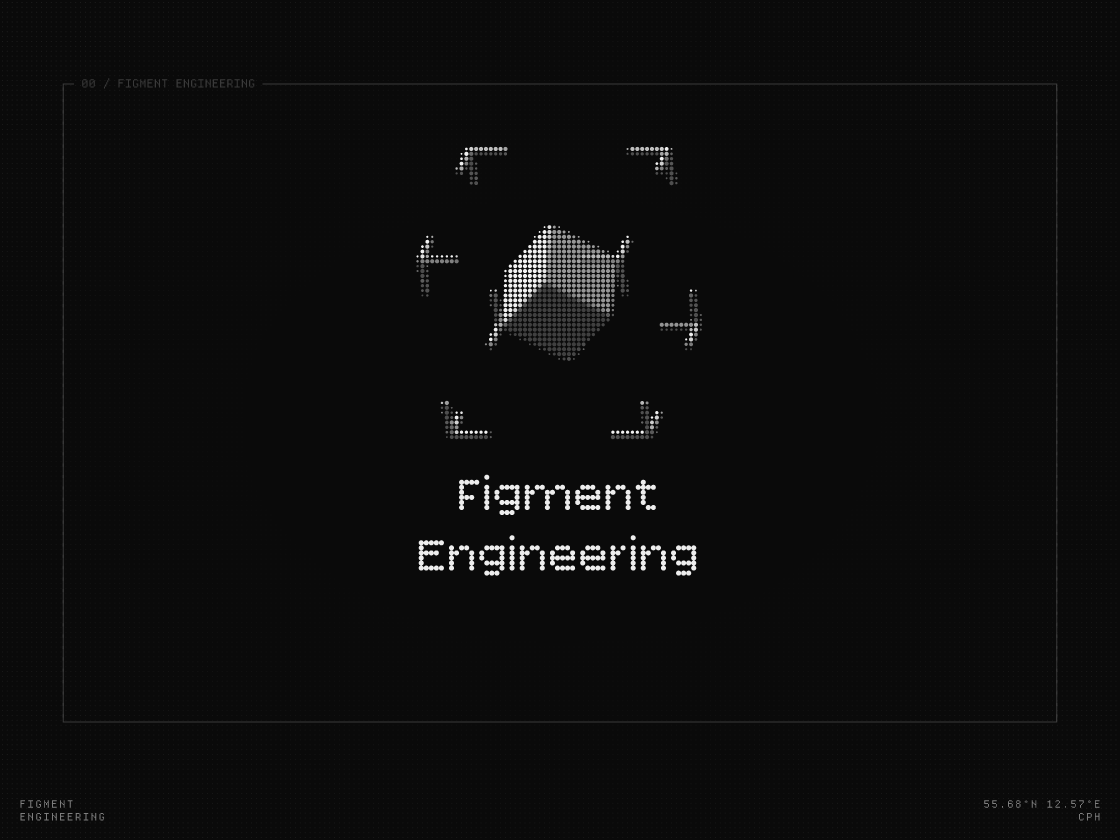
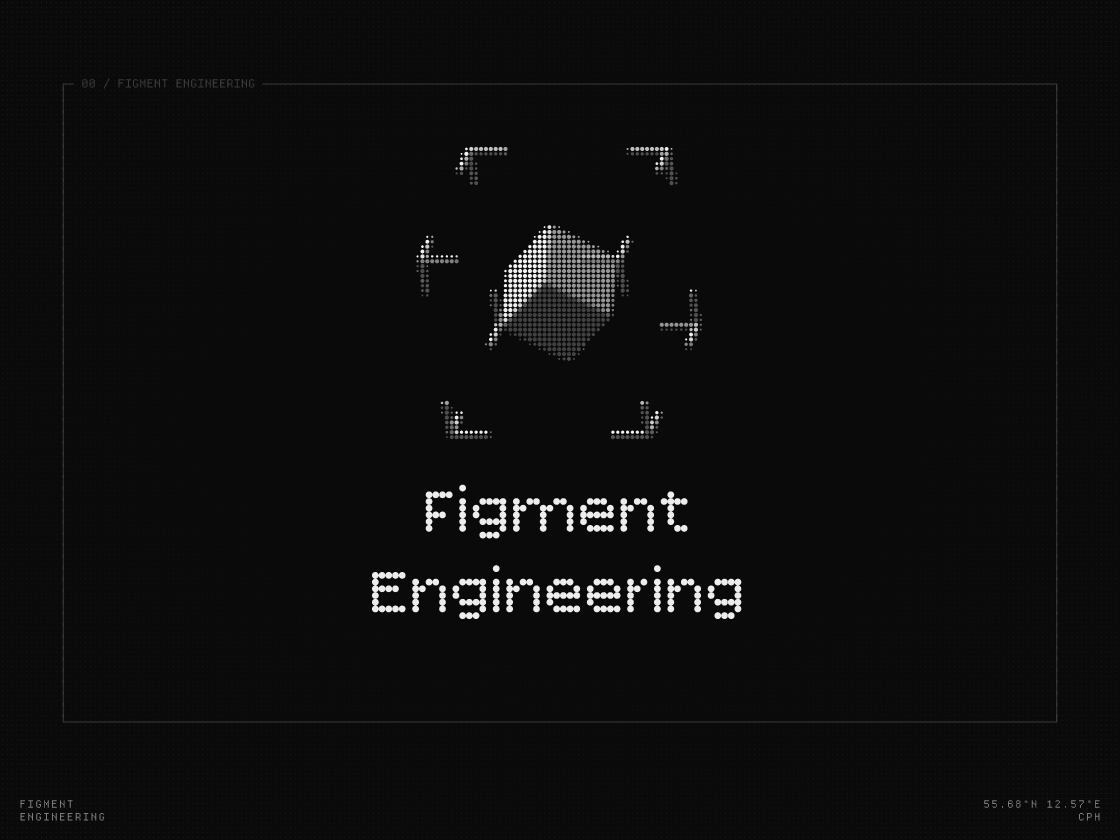
feat: wallpapers for the 16-inch MacBook Pro (3456×2234), with a laptop outline in the section; re-render Homepage with the larger title

Changed region(s): [[0.3125, 0.5571, 0.6875, 0.7429]]

diff --git a/src/lib/wallpapers/mount.test.ts b/src/lib/wallpapers/mount.test.ts
@@ -4,7 +4,7 @@ const m = vi.hoisted(() => ({ register: vi.fn(), prefersReducedMotion: vi.fn(), 
 vi.mock('../motion/scheduler', () => ({ register: m.register, prefersReducedMotion: m.prefersReducedMotion }));
 vi.mock('../report', () => ({ reportError: m.reportError }));
 
-import { WALLPAPERS } from '../../data/wallpapers';
+import { DEVICES, WALLPAPERS } from '../../data/wallpapers';
 import { TYPE_S } from '../type/typed';
 import { mountWallpapers } from './mount';
 
@@ -25,9 +25,9 @@ const el = (extra: Record<string, unknown> = {}) => {
 
 /** the section's markup as plain objects, server-rendered on Monolith for Mac */
 function fakeSection() {
-  const previews = (['mac', 'ipad', 'iphone'] as const).map((d) => el({ dataset: { for: d } }));
+  const previews = DEVICES.map((d) => el({ dataset: { for: d.id } }));
   const designs = WALLPAPERS.map((w) => el({ dataset: { wpDesign: w.id } }));
-  const devices = (['mac', 'ipad', 'iphone'] as const).map((d) => el({ dataset: { wpDevice: d } }));
+  const devices = DEVICES.map((d) => el({ dataset: { wpDevice: d.id } }));
   const parts = { path: el(), file: el({ textContent: 'fe-monolith.png' }), cursor: el(), name: el(), meta: el(), download: el() };
   const root = {
     dataset: {} as Record<string, string>,
@@ -66,7 +66,7 @@ describe('mountWallpapers', () => {
     const s = fakeSection();
     mountWallpapers(s.root);
     expect(s.root.dataset.device).toBe('iphone');
-    expect(s.previews[2].src).toBe('/wallpapers/preview/iphone/fe-monolith.png');
+    expect(s.previews[3].src).toBe('/wallpapers/preview/iphone/fe-monolith.png');
   });
 
   it('switches design and device, and retypes the filename from the start', () => {
@@ -78,9 +78,9 @@ describe('mountWallpapers', () => {
     expect(s.file.textContent).toBe('fe-monolith.png');
 
     s.designs[4].click(); // Claudewitz
-    s.devices[1].click(); // iPad
+    s.devices[2].click(); // iPad
     expect(s.root.dataset.device).toBe('ipad');
-    expect(s.previews[1].src).toBe('/wallpapers/preview/ipad/cw-bean.png');
+    expect(s.previews[2].src).toBe('/wallpapers/preview/ipad/cw-bean.png');
     expect(s.download.href).toBe('/wallpapers/ipad/cw-bean.png');
     expect(s.name.textContent).toBe('Claudewitz');
     expect(s.path.textContent).toBe('~/wallpapers/ipad/');
@@ -118,5 +118,15 @@ describe('mountWallpapers', () => {
     s.designs[2].click();
     expect(s.download.href).toBe('/wallpapers/mac/fe-homepage.png');
     expect(s.file.textContent).toBe('fe-homepage.png');
+  });
+
+  it('offers the MacBook Pro 16″ at its native size, named in full for screen readers', () => {
+    const s = fakeSection();
+    mountWallpapers(s.root);
+    s.devices[1].click();
+    expect(s.root.dataset.device).toBe('macbook');
+    expect(s.previews[1].src).toBe('/wallpapers/preview/macbook/fe-monolith.png');
+    expect(s.previews[1].alt).toBe('Monolith wallpaper for MacBook Pro 16″');
+    expect(s.meta.textContent).toMatch(/^3456×2234 PNG · /);
   });
 });

diff --git a/src/data/wallpapers.ts b/src/data/wallpapers.ts
@@ -1,10 +1,13 @@
 import sizes from './wallpaper-sizes.json';
 
-export type DeviceId = 'mac' | 'ipad' | 'iphone';
+export type DeviceId = 'mac' | 'macbook' | 'ipad' | 'iphone';
 
 export interface Device {
   id: DeviceId;
+  /** short, for the device toggle */
   label: string;
+  /** in full, for alt text */
+  model: string;
   width: number;
   height: number;
   /** dot-grid cell of the render, in px; finer screens get a finer grid */
@@ -14,9 +17,10 @@ export interface Device {
 }
 
 export const DEVICES: Device[] = [
-  { id: 'mac', label: 'Mac', width: 5120, height: 2880, cell: 16, previewWidth: 1440 },
-  { id: 'ipad', label: 'iPad', width: 2752, height: 2064, cell: 12, previewWidth: 1120 },
-  { id: 'iphone', label: 'iPhone', width: 1320, height: 2868, cell: 12, previewWidth: 440 },
+  { id: 'mac', label: 'Mac', model: 'Mac', width: 5120, height: 2880, cell: 16, previewWidth: 1440 },
+  { id: 'macbook', label: 'MacBook', model: 'MacBook Pro 16″', width: 3456, height: 2234, cell: 12, previewWidth: 1200 },
+  { id: 'ipad', label: 'iPad', model: 'iPad', width: 2752, height: 2064, cell: 12, previewWidth: 1120 },
+  { id: 'iphone', label: 'iPhone', model: 'iPhone', width: 1320, height: 2868, cell: 12, previewWidth: 440 },
 ];
 
 export interface Wallpaper {

diff --git a/src/data/wallpapers.test.ts b/src/data/wallpapers.test.ts
@@ -17,8 +17,10 @@ describe('wallpapers', () => {
     expect(thumbPath('cw-bean')).toBe('/wallpapers/thumb/cw-bean.png');
   });
 
-  it('has Mac, iPad and iPhone at their native sizes', () => {
-    expect(DEVICES.map((d) => [d.id, d.width, d.height])).toEqual([['mac', 5120, 2880], ['ipad', 2752, 2064], ['iphone', 1320, 2868]]);
+  it('has Mac, MacBook Pro 16″, iPad and iPhone at their native sizes', () => {
+    expect(DEVICES.map((d) => [d.id, d.width, d.height])).toEqual([
+      ['mac', 5120, 2880], ['macbook', 3456, 2234], ['ipad', 2752, 2064], ['iphone', 1320, 2868],
+    ]);
   });
 
   it('formats file sizes like ls -h', () => {

diff --git a/src/lib/wallpapers/mount.ts b/src/lib/wallpapers/mount.ts
@@ -34,7 +34,7 @@ export function mountWallpapers(root: HTMLElement): void {
     for (const img of previews) {
       if (img.dataset.for !== device) continue;
       img.src = previewPath(w.id, device);
-      img.alt = `${w.name} wallpaper for ${d.label}`;
+      img.alt = `${w.name} wallpaper for ${d.model}`;
     }
     download.href = downloadPath(w.id, device);
     download.setAttribute('download', `figment-${w.id}-${device}.png`);
